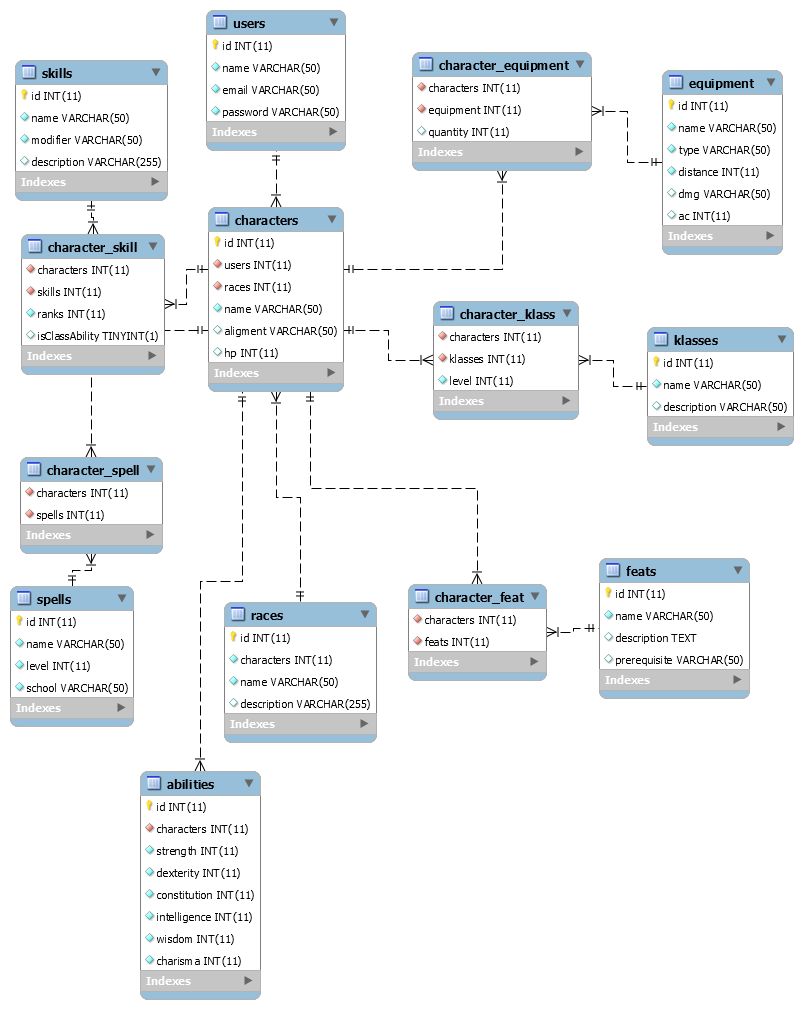
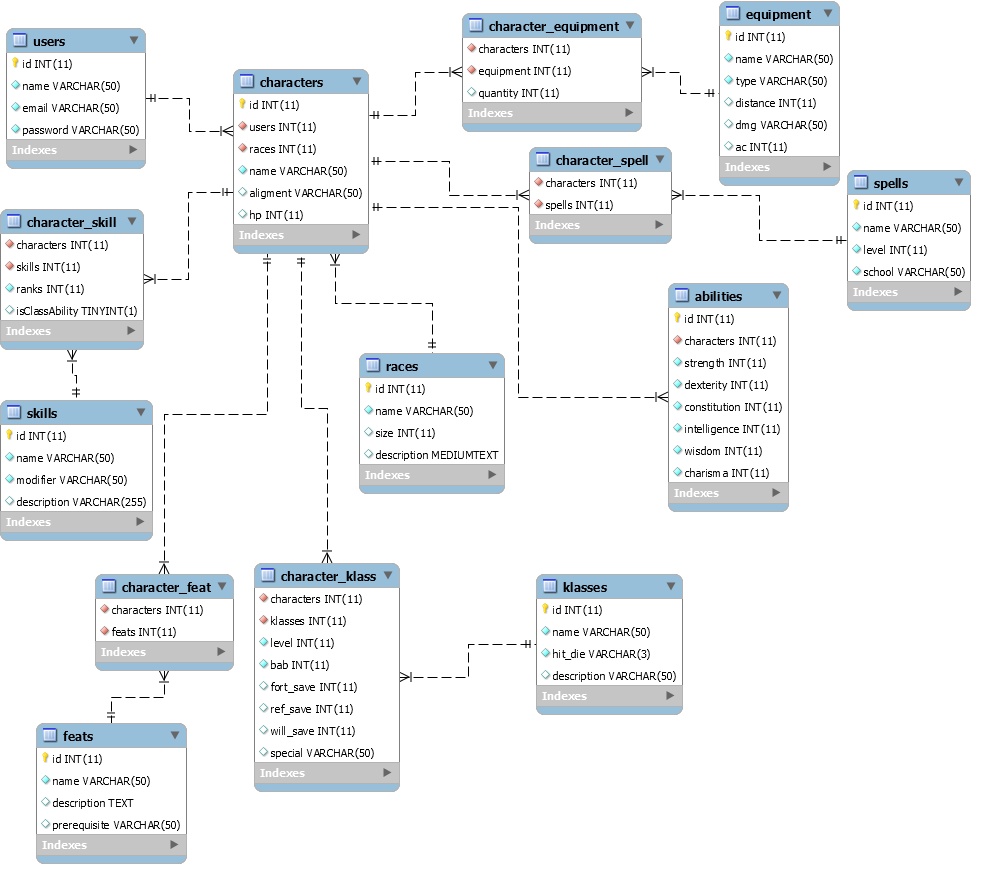
made small adjustments in db and added description of data in show page

Changed region(s): [[0.0, 0.0, 0.9963, 1.0]]

diff --git a/css/app.css b/css/app.css
@@ -18,8 +18,14 @@
 	background-color: black;
 	color: white;
 	text-align: center;
+	font-size: 0.8em;
 }
 
 p {
 	margin-right: 0.2em;
+}
+
+#info {
+	font-size: 0.5em;
+	color: grey;
 }

diff --git a/private/characters/show.php b/private/characters/show.php
@@ -1,10 +1,12 @@
 <?php include_once '../../config.php'; checkLogin();
 
 if(isset($_GET["id"])) {
-    $stmt = $conn->prepare("select a.id, a.name, a.users,a.races, a.aligment, a.hp, b.name as race, c.level, d.name as class, d.bab, d.fort_save, d.ref_save, d.will_save from characters a
-    left join races b on b.id = a.races
-    left join character_klass c on c.characters=a.id
-    left join klasses d on d.id=c.klasses where a.id = :id");
+    $stmt = $conn->prepare("select a.id, a.name, a.users,a.races, a.aligment, a.hp, b.name as race, b.size, b.description,
+                            c.level, d.name as class, c.bab, c.fort_save, c.ref_save, c.will_save 
+                            from characters a
+                            left join races b on b.id = a.races
+                            left join character_klass c on c.characters=a.id
+                            left join klasses d on d.id=c.klasses where a.id = :id");
     $stmt->execute(["id" => $_GET["id"]]);
     $character = $stmt->fetch(PDO::FETCH_OBJ);
 
@@ -12,6 +14,8 @@ if(isset($_GET["id"])) {
     $ref = $character->ref_save;
     $will = $character->will_save;
     $bab = $character->bab;
+    $racial_traits = $character->description;
+    $size = $character->size;
 }
 ?>
 
@@ -68,8 +72,6 @@ if(isset($_GET["id"])) {
                                     $stmt->execute(["id" => $_GET["id"]]);
                                     $result = $stmt->fetchAll(PDO::FETCH_OBJ);
 
-
-
                                     foreach($result as $row): ?>
                                     <tr>
                                     <th scope="row">Strength</th>
@@ -115,49 +117,125 @@ if(isset($_GET["id"])) {
                                 <span class="icon"><a href="#"><i class="fas fa-pencil-alt"></i></a></span></h5><!-- edit icon -->
                             <?php $baseArmor = 10; ?>
                             <div class="row">
-                                <p class="title">AC</p><p>14 =</p>
-                                <p><?php echo $baseArmor; ?> + shield bonus + <?php echo $dexterity; ?> + size modifier + natural armor + deflection modifier + misc</p>
+                                <p class="title">AC</p>
+                                <table>
+                                    <tr>
+                                        <td id="abilities">14</td>
+                                        <td id="abilities">=</td>
+                                        <td id="abilities">10</td>
+                                        <td id="abilities">+</td>
+                                        <td id="abilities">4</td>
+                                        <td id="abilities">+</td>
+                                        <td id="abilities">0</td>
+                                        <td id="abilities">+</td>
+                                        <td id="abilities"><?php echo $dexterity; ?></td>
+                                        <td id="abilities">+</td>
+                                        <td id="abilities"><?php echo $size; ?></td>
+                                        <td id="abilities">+</td>
+                                        <td id="abilities">0</td>
+                                        <td id="abilities">+</td>
+                                        <td id="abilities">0</td>
+                                        <td id="abilities">+</td>
+                                        <td id="abilities">0</td>
+                                        
+                                    </tr>
+                                    <tr>
+                                        <th id="info">total</th>
+                                        <th id="info"></th>
+                                        <th id="info"></th>
+                                        <th id="info"></th>
+                                        <th id="info">armor</th>
+                                        <th id="info"></th>
+                                        <th id="info">shield</th>
+                                        <th id="info"></th>
+                                        <th id="info">dex mod</th>
+                                        <th id="info"></th>
+                                        <th id="info">size mod</th>
+                                        <th id="info"></th>
+                                        <th id="info">natural armor</th>
+                                        <th id="info"></th>
+                                        <th id="info">deflection mod</th>
+                                        <th id="info"></th>
+                                        <th id="info">misc</th>
+                                    </tr>
+                                </table>                               
                             </div>
-
+                            
                             <div class="row">
                                 <p class="title">Touch</p>= <p>10</p>
                                 <p class="title">Flat-Footed</p> = <p>14</p>
                             </div>
                             <hr>
-                            <h6>Saving throws</h6>
-                            <div class="row">
-                                <p class="title">Fortitude</p>
-                                <p>total =</p>
-                                <p><?php echo $fort; ?></p>+
-                                <p><?php echo $constitution; ?></p>+
-                                <p>magic mod</p>+
-                                <p>misc</p>+
-                                <p>temp mod</p>
-                            </div>
-                            <div class="row">
-                                <p class="title">Reflex</p>
-                                <p>total =</p>
-                                <p><?php echo $ref; ?></p>+
-                                <p><?php echo $dexterity; ?></p>+
-                                <p>magic mod</p>+
-                                <p>misc</p>+
-                                <p>temp mod</p>
-                            </div>
-                            <div class="row">
-                                <p class="title">Will</p>
-                                <p>total =</p>
-                                <p><?php echo $will; ?></p>+
-                                <p><?php echo $wisdom; ?></p>+
-                                <p>magic mod</p>+
-                                <p>misc</p>+
-                                <p>temp mod</p>
-                            </div>                          
+                            
+                            <table>
+                                <tr>
+                                    <p>Saving throws</p>
+                                    <th></th>
+                                    <th id="info">total</th>
+                                    <th id="info"></th>
+                                    <th id="info">base save</th>
+                                    <th id="info"></th>
+                                    <th id="info">ability mod</th>
+                                    <th id="info"></th>
+                                    <th id="info">magic mod</th>
+                                    <th id="info"></th>
+                                    <th id="info">misc</th>
+                                    <th id="info"></th>
+                                    <th id="info">temp</th>
+                                </tr>
+
+                                <div class="row">                
+                                    <tr>
+                                    <td><span class="title">Fortitude</span> </td>
+                                    <td id="abilities">2</td>
+                                    <td id="abilities">=</td>
+                                    <td id="abilities"><?php echo $fort; ?></td>
+                                    <td id="abilities">+</td>
+                                    <td id="abilities"><?php echo $constitution; ?></td>
+                                    <td id="abilities">+</td>
+                                    <td id="abilities">0</td>
+                                    <td id="abilities">+</td>
+                                    <td id="abilities">0</td>
+                                    <td id="abilities">+</td>
+                                    <td id="abilities">0</td>                                                                              
+                                    </tr> 
+                                </div>   
+                                <div class="row">                
+                                    <tr>
+                                    <td><span class="title">Reflex</span> </td>
+                                    <td id="abilities">2</td>
+                                    <td id="abilities">=</td>
+                                    <td id="abilities"><?php echo $ref; ?></td>
+                                    <td id="abilities">+</td>
+                                    <td id="abilities"><?php echo $dexterity; ?></td>
+                                    <td id="abilities">+</td>
+                                    <td id="abilities">0</td>
+                                    <td id="abilities">+</td>
+                                    <td id="abilities">0</td>
+                                    <td id="abilities">+</td>
+                                    <td id="abilities">0</td>                                                                              
+                                    </tr> 
+                                </div> 
+                                <div class="row">                
+                                    <tr>
+                                    <td><span class="title">Will</span> </td>
+                                    <td id="abilities">1</td>
+                                    <td id="abilities">=</td>
+                                    <td id="abilities"><?php echo $will; ?></td>
+                                    <td id="abilities">+</td>
+                                    <td id="abilities"><?php echo $wisdom; ?></td>
+                                    <td id="abilities">+</td>
+                                    <td id="abilities">0</td>
+                                    <td id="abilities">+</td>
+                                    <td id="abilities">0</td>
+                                    <td id="abilities">+</td>
+                                    <td id="abilities">0</td>                                                                              
+                                    </tr> 
+                                </div>                                
+                            </table>                     
                         </div>
                     </div> <!-- end of defense card -->
-                </div> <!-- end of first row -->
-
-                     <!-- Combat -->                
-                <div class="row">
+               
 
                     <div class="card" style="height: 20em;">
                         <div class="card-body">
@@ -172,18 +250,55 @@ if(isset($_GET["id"])) {
                             </div>
                             <div class="row">
                                 <p class="title">CMB</p>
-                                <p><?php echo $bab + $strength; ?> = </p>
-                                <p><?php echo $bab; ?></p>+
-                                <p><?php echo $strength; ?></p>+
-                                <p>size mod</p>
+                                <table>
+                                    <tr>
+                                        <td id="abilities"><?php echo $bab + $strength + $size; ?></td>
+                                        <td id="abilities">=</td>
+                                        <td id="abilities"><?php echo $bab; ?></td>
+                                        <td id="abilities">+</td>
+                                        <td id="abilities"><?php echo $strength; ?></td>
+                                        <td id="abilities">+</td>
+                                        <td id="abilities"><?php echo $size; ?></td>
+                                    </tr>
+                                    <tr>
+                                        <th id="info">total</th>
+                                        <th id="info"></th>
+                                        <th id="info">bab</th>
+                                        <th id="info"></th>
+                                        <th id="info">strength mod</th>
+                                        <th id="info"></th>
+                                        <th id="info">size mod</th>
+                                    </tr>
+                                </table>
                             </div>
                             <div class="row">
                                 <p class="title">CMD</p>
-                                <p><?php echo $bab + $strength + $dexterity + 10; ?> = </p>
-                                <p><?php echo $bab; ?></p>+
-                                <p><?php echo $strength; ?></p>+
-                                <p><?php echo $dexterity; ?></p>+
-                                <p>10</p>
+                                <table>
+                                    <tr>
+                                        <td id="abilities"><?php echo $bab + $strength + $dexterity + $size + 10; ?></td>
+                                        <td id="abilities">=</td>
+                                        <td id="abilities"><?php echo $bab; ?></td>
+                                        <td id="abilities">+</td>
+                                        <td id="abilities"><?php echo $strength; ?></td>
+                                        <td id="abilities">+</td>
+                                        <td id="abilities"><?php echo $dexterity; ?></td>
+                                        <td id="abilities">+</td>
+                                        <td id="abilities"><?php echo $size; ?></td>
+                                        <td id="abilities">+</td>
+                                        <td id="abilities">10</td>
+                                    </tr>
+                                    <tr>
+                                        <th id="info">total</th>
+                                        <th id="info"></th>
+                                        <th id="info">bab</th>
+                                        <th id="info"></th>
+                                        <th id="info">strength mod</th>
+                                        <th id="info"></th>
+                                        <th id="info">dexterity mod</th>
+                                        <th id="info"></th>
+                                        <th id="info">size mod</th>
+                                    </tr>
+                                </table>
                             </div>                                     
                         </div>
                     </div> <!-- end of combat card -->
@@ -198,16 +313,14 @@ if(isset($_GET["id"])) {
                                 <thead>
                                     <tr>
                                     <th scope="col"></th>
-                                    <th scope="col"></th>
-                                    
+                                    <th scope="col"></th>                                    
                                     <th scope="col">Ability</th>
                                     <th></th>
                                     <th scope="col">Ranks</th>
                                     <th></th>
                                     <th scope="col">Misc</th>  
                                     <th></th>   
-                                    <th scope="col">Total</th>
-                                                                   
+                                    <th scope="col">Total</th>                                                                   
                                     </tr>
                                 </thead>
                                 <tbody>
@@ -227,7 +340,7 @@ if(isset($_GET["id"])) {
                                         <input type="checkbox" 
                                             <?php if($row->isClassAbility == 1): ?> checked <?php endif;?> />                                    
                                     </td>
-                                    <th scope="row"><?php echo $row->name . "<small><span id =\"desc\">".$row->modifier."</span></small>"; ?></th>
+                                    <th scope="row"><?php echo $row->name." <small><span id =\"desc\">".$row->modifier."</span></small>"; ?></th>
                                     
                                     
                                     <td><?php 
@@ -277,7 +390,7 @@ if(isset($_GET["id"])) {
                         </div>
                     </div> <!-- end of skills card -->                
                 </div>    <!-- end of second row with cards -->            
-			</div>
+			</div>          
 		</div>
 		<?php include_once '../../templates/_scripts.php'; ?>
 	</body>

diff --git a/templates/_nav.php b/templates/_nav.php
@@ -25,7 +25,7 @@
       </li>
         <?php endif; ?>
       <li class="nav-item">
-        <a class="nav-link" href="<?php echo $route; ?>documentation/era.png" target="_blank">Era</a>
+        <a class="nav-link" href="<?php echo $route; ?>documentation/ERA.png" target="_blank">Era</a>
       </li>
       <li>
         <a class="nav-link" target="_blank" href="https://github.com/jsostaric">Github</a>
